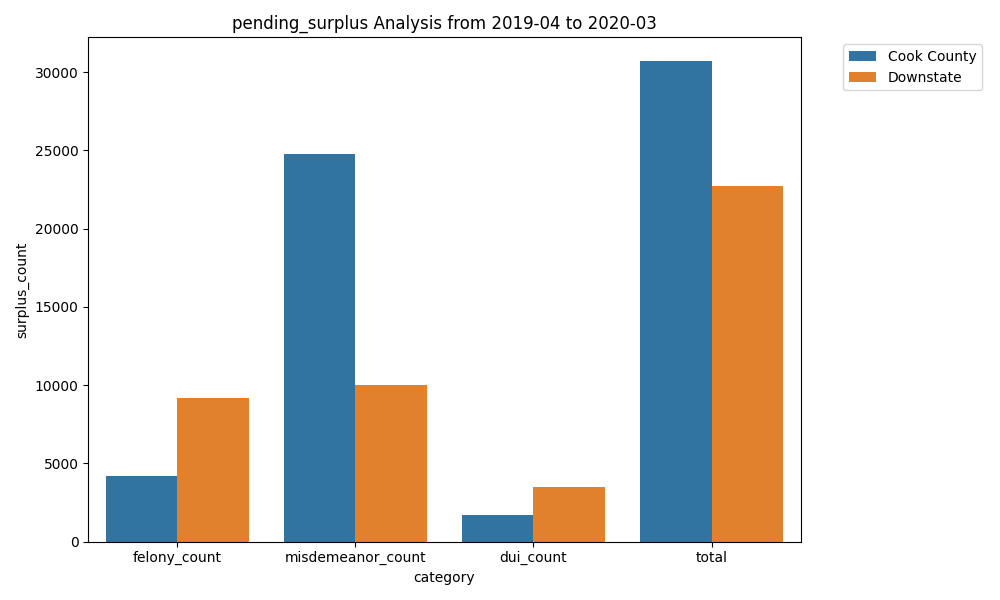
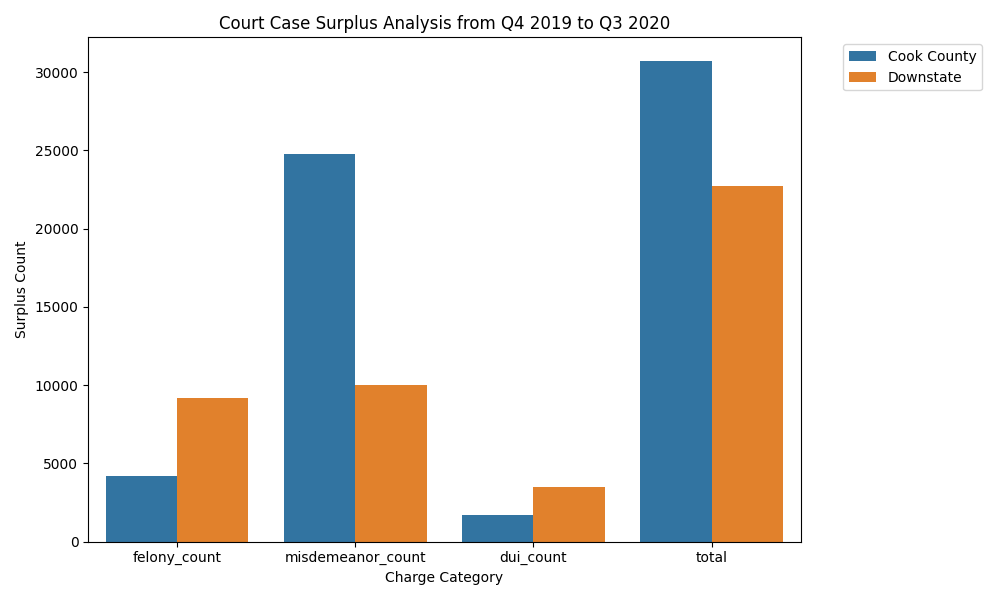
tidy up graphs

diff --git a/main.py b/main.py
@@ -1,7 +1,5 @@
-from src.stages.run_court_forecasting import run_court_forecasting
-from src.stages.run_arrest_forecasting import run_arrest_forecasting
-from src.stages.run_data_merge import run_data_merge
 from src.stages.run_court_stats import run_court_stats
+from src.stages.run_forecasting_project import run_forecasting_project
 
 import time
 import os
@@ -12,13 +10,6 @@ import logging
 logging.basicConfig(level=logging.INFO, format='%(asctime)s %(message)s',datefmt='%m/%d/%Y %I:%M:%S %p')
 
 
-def run_forecasting_project():
-    # organize predictions into a single df and export to disk
-    disposition_data, raw_dispositions_predictions, df_backlog = run_court_forecasting(data_folder=data_folder)
-    arrest_predictions = run_arrest_forecasting(data_folder)
-    # merge court and arrest forecasting data into a single dataframe
-    run_data_merge(data_folder=data_folder, disposition_data=disposition_data, arrest_predictions=arrest_predictions)
-
 
 if __name__ == '__main__':
     ## get source data and prepare for forecasting
@@ -27,3 +18,6 @@ if __name__ == '__main__':
     figs_folder = os.sep.join([os.environ['PWD'], 'figures'])
 
     run_court_stats(data_folder=data_folder, figs_folder=figs_folder)
+
+    # uncomment next line to run forecasting project
+    # run_forecasting_project(data_folder)

diff --git a/src/utils_analysis/config.py b/src/utils_analysis/config.py
@@ -36,8 +36,10 @@ def make_surplus_figs(df, analysis_type, figs_folder, filename='fig_2_surplus.pn
     logging.info(f'Running analysis for {analysis_type}.')
     plt.figure(figsize=(10,6))
     sns.barplot(data=df, x='category', hue='organization', y='surplus_count')
-    plt.title(f'{analysis_type} Analysis from {starting_date} to {ending_date}')
+    plt.title(f'Court Case Surplus Analysis from Q4 2019 to Q3 2020')
     plt.legend(bbox_to_anchor=(1.05, 1), loc='upper left')
+    plt.xlabel('Charge Category')
+    plt.ylabel('Surplus Count')
     plt.tight_layout()
     data_path = os.sep.join([figs_folder, filename])
     plt.savefig(data_path)
@@ -89,7 +91,7 @@ def make_stats_figs(df, clearance_rates, analysis_type, figs_folder, filename='f
     g.map(ant, 'quarter', 'organization')
     g.set_xticklabels(rotation=30)
     g.set_ylabels('Count')
-    g.fig.suptitle('Overall Court Statistics between Cook County and Downstate from Q4 2019 to Q4 2020')
+    g.fig.suptitle('Overall Court Statistics between Cook County and Downstate from Q4 2019 to Q3 2020')
 
     custom_lines = [Line2D([0], [0], color="blue", lw=4),
                     Line2D([0], [0], color="orange", lw=4),

diff --git a/src/stages/run_forecasting_project.py b/src/stages/run_forecasting_project.py
@@ -1,0 +1,10 @@
+from src.stages.run_court_forecasting import run_court_forecasting
+from src.stages.run_arrest_forecasting import run_arrest_forecasting
+from src.stages.run_data_merge import run_data_merge
+
+def run_forecasting_project(data_folder):
+    # organize predictions into a single df and export to disk
+    disposition_data, raw_dispositions_predictions, df_backlog = run_court_forecasting(data_folder=data_folder)
+    arrest_predictions = run_arrest_forecasting(data_folder)
+    # merge court and arrest forecasting data into a single dataframe
+    run_data_merge(data_folder=data_folder, disposition_data=disposition_data, arrest_predictions=arrest_predictions)
